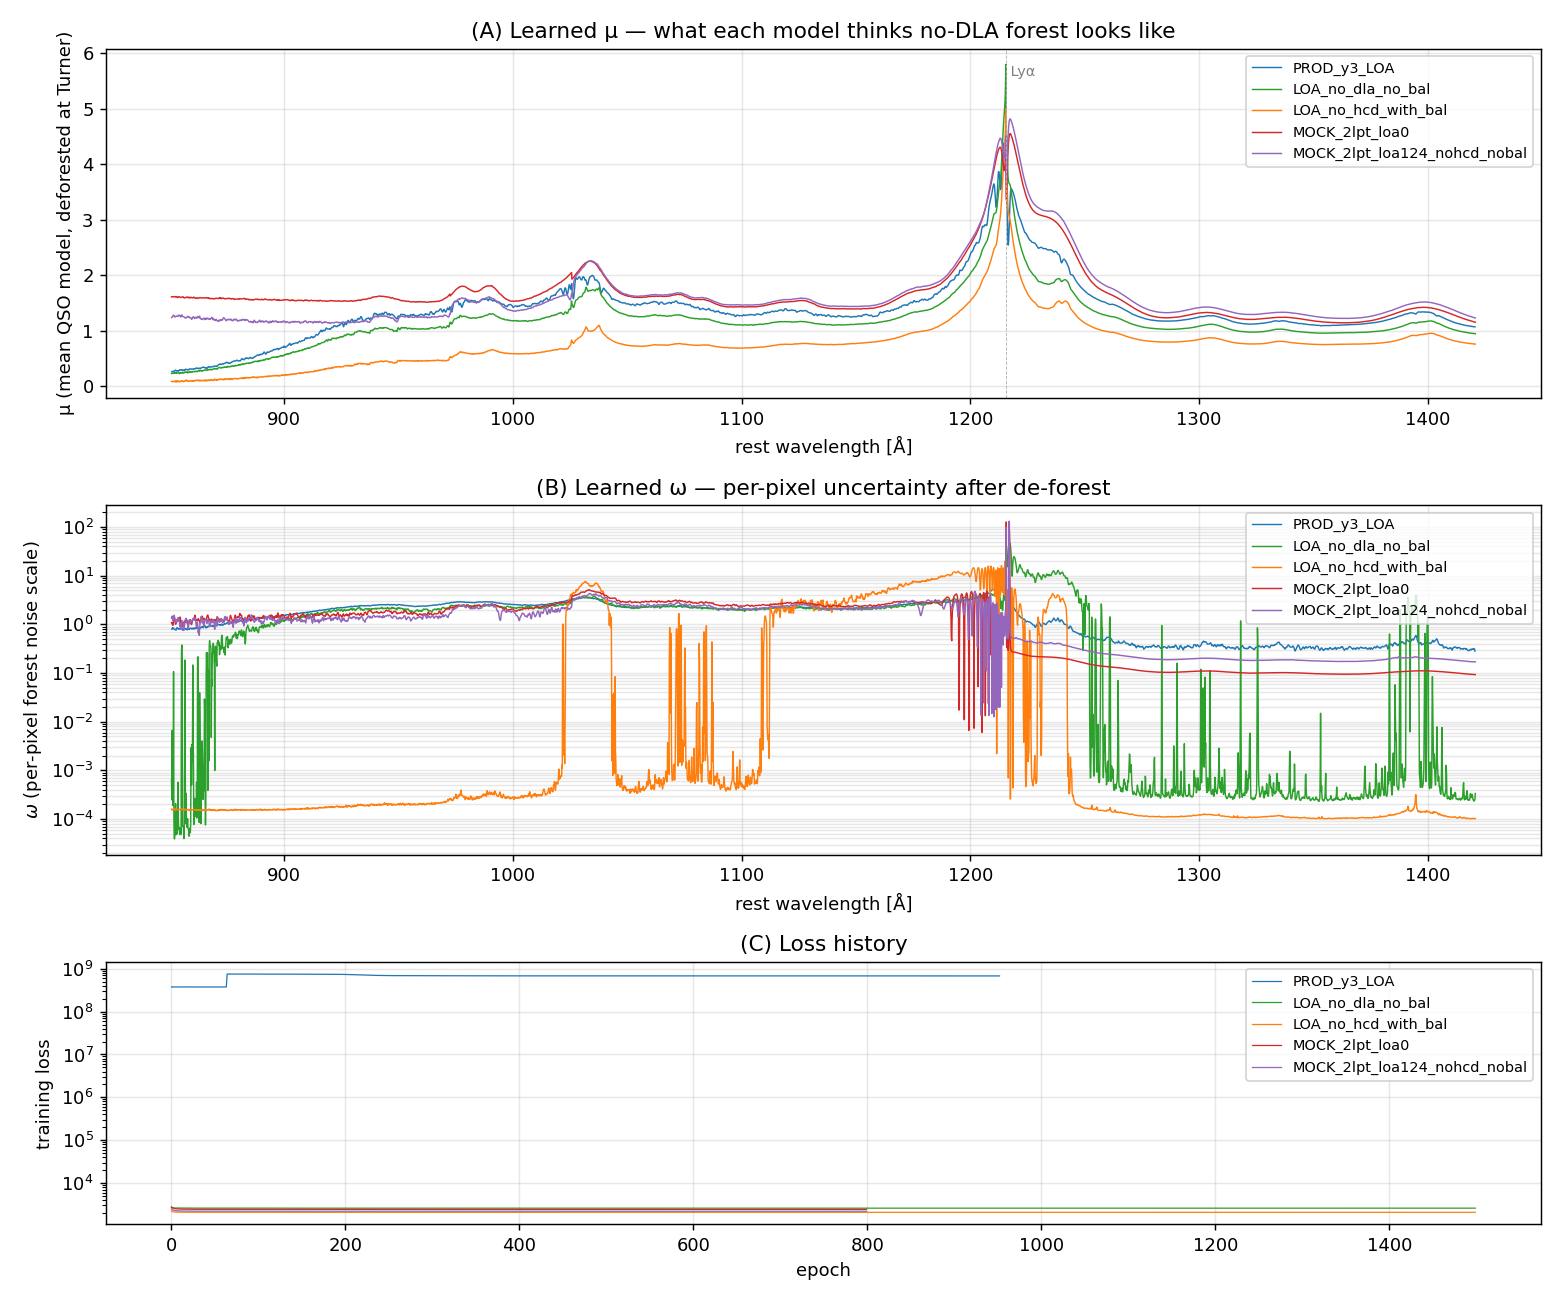
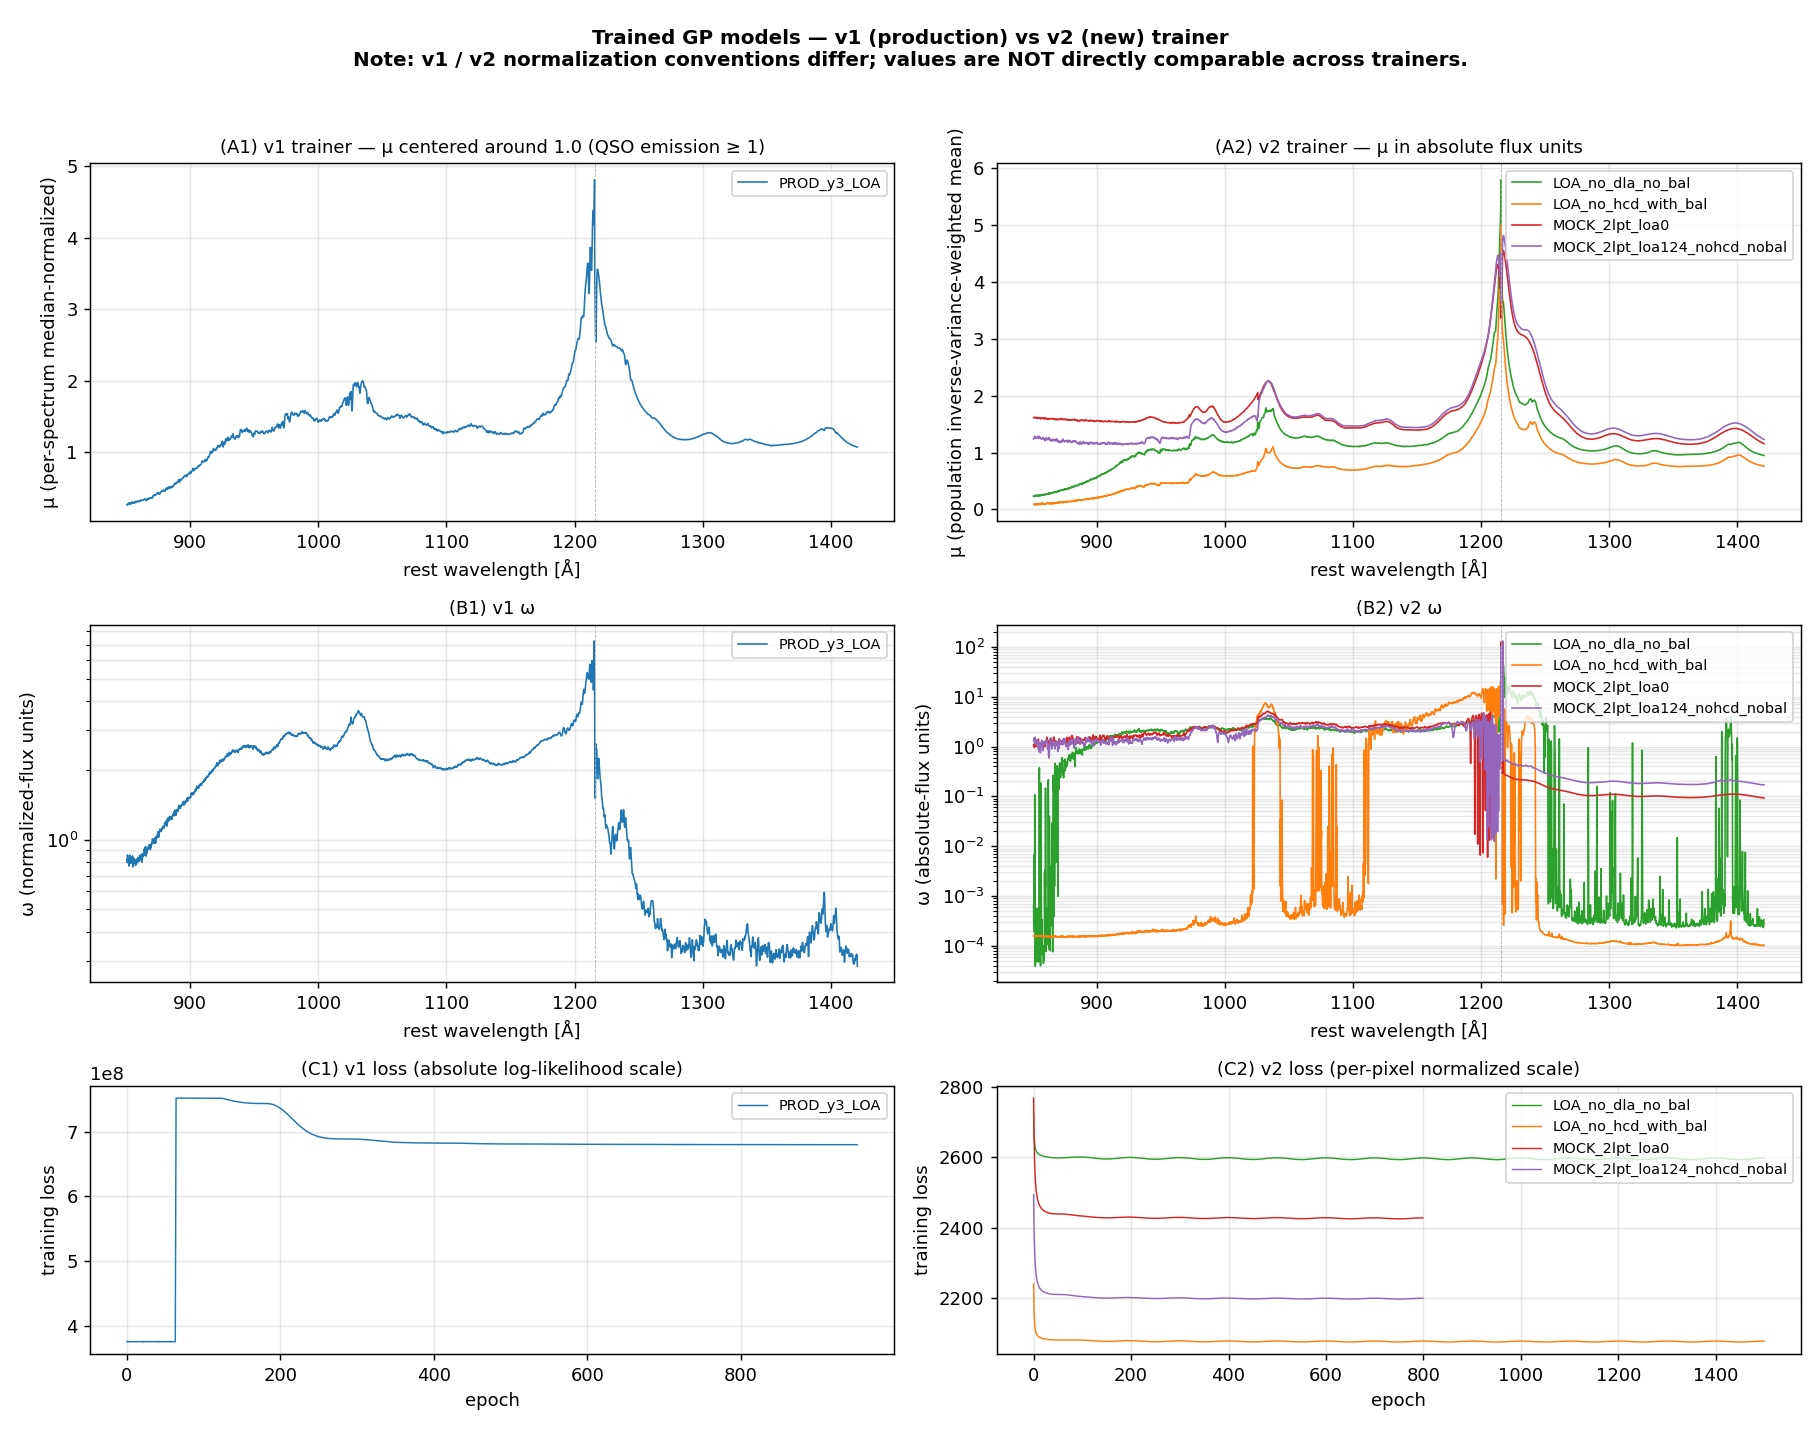
Trained-model comparison: split v1/v2 panels + explain scale differences
User asked three good questions about the comparison figure:
  1. Why v2 LOA-no-DLA-no-BAL μ is lower than v1 production μ
  2. Why ω looks so different
  3. Loss-history y-scale differs by 8 orders of magnitude

Root cause for all three: v1 and v2 trainers use different
normalization conventions, so absolute values are NOT directly
comparable across trainers.

  v1 (learn_qso_model.SpectrumProcessor):
    - Each spectrum divided by its own median flux in [1425,1475] Å
    - μ is LEARNED, fluctuates around 1 (emission features peak >1)
    - ω in fractional-flux units
    - Loss in absolute matlab-era log-likelihood (~1e8)

  v2 (training/dataset._weighted_mean_centering):
    - Inverse-variance-weighted POPULATION mean is subtracted
    - μ in the .h5 IS that mean (computed once, NOT learned)
    - Centered data has mean ≈ 0
    - ω in absolute-flux units
    - Loss is per-pixel normalized (~2000-2700 range)

Same physics, different conventions. Same model can't be reproduced
in v1 vs v2 by reading off the same .h5 fields.

Re-rendered figure with v1/v2 split into separate panels (3x2 grid)
so each side shows comparable values. Doc has new sections explaining:
  - Trainer normalization difference at the source-code level
  - Why μ scale differs
  - Why ω dynamic-range differs
  - Why loss scale differs
  - Removed duplicate "Convergence" / "Trainset filter" sections that
    crept in from the earlier filter-correction edit.

diff --git a/examples/compare_trained_gp_models.py b/examples/compare_trained_gp_models.py
@@ -103,11 +103,15 @@ def main():
               f"L_end={info['loss_history'][-1] if info['loss_history'] is not None else 'N/A'}")
 
     # ============================================================
-    # Figure 1 — μ comparison + log_omega comparison + loss curves
+    # Figure 1 — split into v1 (production) vs v2 (new) panels
+    # because the trainers use different normalization conventions:
+    #   v1: per-spectrum-median-normalized (μ fluctuates around 1)
+    #   v2: inverse-variance-weighted-population-mean centered (μ
+    #       is the absolute mean flux per pixel, not learned but
+    #       computed from data; centered data has mean ≈ 0)
     # ============================================================
-    fig, axes = plt.subplots(3, 1, figsize=(12, 10),
+    fig, axes = plt.subplots(3, 2, figsize=(14, 11),
                              gridspec_kw=dict(height_ratios=[2, 2, 1.5]))
-    ax_mu, ax_om, ax_loss = axes
 
     color_map = {
         "PROD_y3_LOA": "C0",
@@ -116,40 +120,61 @@ def main():
         "MOCK_2lpt_loa0": "C3",
         "MOCK_2lpt_loa124_nohcd_nobal": "C4",
     }
+    v1_models = ["PROD_y3_LOA"]
+    v2_models = [n for n in extracted if n not in v1_models]
 
-    for name, info in extracted.items():
-        c = color_map.get(name, "0.4")
-        rest = info["rest_wavelengths"]
-        ax_mu.plot(rest, info["mu"], color=c, lw=0.8, label=name)
-        ax_om.plot(rest, np.exp(info["log_omega"]), color=c, lw=0.8, label=name)
-        if info["loss_history"] is not None:
-            ax_loss.plot(np.arange(len(info["loss_history"])),
-                         info["loss_history"], color=c, lw=0.7, label=name)
+    def _plot_panel(ax, key, models, ylabel, title, log=False):
+        for n in models:
+            if n not in extracted: continue
+            info = extracted[n]
+            rest = info["rest_wavelengths"]
+            y = info[key] if key != "omega" else np.exp(info["log_omega"])
+            ax.plot(rest, y, color=color_map.get(n, "0.4"), lw=0.9, label=n)
+        ax.set_xlabel("rest wavelength [Å]")
+        ax.set_ylabel(ylabel)
+        ax.set_title(title, fontsize=10)
+        ax.legend(fontsize=8, loc="upper right")
+        ax.grid(alpha=0.3, which="both" if log else "major")
+        if log:
+            ax.set_yscale("log")
+        ax.axvline(1215.67, color="0.7", lw=0.5, ls="--")
 
-    ax_mu.set_xlabel("rest wavelength [Å]")
-    ax_mu.set_ylabel("μ (mean QSO model, deforested at Turner)")
-    ax_mu.set_title("(A) Learned μ — what each model thinks no-DLA forest looks like")
-    ax_mu.legend(fontsize=8, loc="upper right")
-    ax_mu.grid(alpha=0.3)
-    ax_mu.axvline(1215.67, color="0.7", lw=0.5, ls="--")
-    ax_mu.text(1215.67, ax_mu.get_ylim()[1] * 0.95, " Lyα",
-               color="0.5", fontsize=8, va="top")
+    _plot_panel(axes[0, 0], "mu", v1_models,
+                "μ (per-spectrum median-normalized)",
+                "(A1) v1 trainer — μ centered around 1.0 (QSO emission ≥ 1)")
+    _plot_panel(axes[0, 1], "mu", v2_models,
+                "μ (population inverse-variance-weighted mean)",
+                "(A2) v2 trainer — μ in absolute flux units")
+    _plot_panel(axes[1, 0], "omega", v1_models,
+                "ω (normalized-flux units)",
+                "(B1) v1 ω", log=True)
+    _plot_panel(axes[1, 1], "omega", v2_models,
+                "ω (absolute-flux units)",
+                "(B2) v2 ω", log=True)
 
-    ax_om.set_xlabel("rest wavelength [Å]")
-    ax_om.set_ylabel(r"$\omega$ (per-pixel forest noise scale)")
-    ax_om.set_title("(B) Learned ω — per-pixel uncertainty after de-forest")
-    ax_om.set_yscale("log")
-    ax_om.legend(fontsize=8, loc="upper right")
-    ax_om.grid(alpha=0.3, which="both")
+    # Loss panels — also split (v1 absolute log-likelihood vs v2 normalized)
+    for ax, models, title in [
+        (axes[2, 0], v1_models, "(C1) v1 loss (absolute log-likelihood scale)"),
+        (axes[2, 1], v2_models, "(C2) v2 loss (per-pixel normalized scale)"),
+    ]:
+        for n in models:
+            if n not in extracted: continue
+            info = extracted[n]
+            if info["loss_history"] is None: continue
+            ax.plot(np.arange(len(info["loss_history"])),
+                    info["loss_history"],
+                    color=color_map.get(n, "0.4"), lw=0.8, label=n)
+        ax.set_xlabel("epoch")
+        ax.set_ylabel("training loss")
+        ax.set_title(title, fontsize=10)
+        ax.legend(fontsize=8, loc="upper right")
+        ax.grid(alpha=0.3)
 
-    ax_loss.set_xlabel("epoch")
-    ax_loss.set_ylabel("training loss")
-    ax_loss.set_title("(C) Loss history")
-    ax_loss.legend(fontsize=8, loc="upper right")
-    ax_loss.grid(alpha=0.3)
-    ax_loss.set_yscale("log")
-
-    fig.tight_layout()
+    fig.suptitle("Trained GP models — v1 (production) vs v2 (new) trainer\n"
+                 "Note: v1 / v2 normalization conventions differ; values are "
+                 "NOT directly comparable across trainers.",
+                 fontsize=11, fontweight="bold")
+    fig.tight_layout(rect=[0, 0, 1, 0.96])
     out1 = out_dir / "trained_gp_models_compare.png"
     fig.savefig(out1, dpi=130)
     print(f"\n[saved] {out1}")

diff --git a/docs/notes/2026-05-01_trained_gp_models_comparison.md b/docs/notes/2026-05-01_trained_gp_models_comparison.md
@@ -82,29 +82,67 @@ Turner was calibrated on similar real data. Mock-trained models pick
 *lower* residual τ₀ but compensate with higher β — they trade off
 mean-flux scale for steeper z-evolution.
 
-## Learned μ — what each model thinks "no-DLA forest" looks like
+## Learned μ + ω + loss — split into v1 / v2 panels
 
 ![μ + ω + loss comparison](../story_figures/trained_gp_models_compare.png)
 
-Panel A shows μ(λ_rest) for all 5 models. Lyα emission line at
-1215.67 Å is clearly visible in all models (they all see real QSO
-shape). The **production μ has visibly more high-frequency structure
-than the v2-trained models** — likely a side-effect of v1's non-centered
-training; the absolute numerical scales are also offset because v1
-and v2 use different normalization conventions.
+> **Why the figure is split into v1 vs v2 panels (not all in one)**:
+> the two trainers use different normalization conventions, so the
+> absolute numerical values of μ, ω, and loss live on different
+> scales by construction. Same physics, different conventions —
+> values within each side are directly comparable, but cross-side
+> comparison requires the conversions below.
 
-Panel B shows ω(λ_rest), the per-pixel forest noise scale. The wild
-dynamic range of LOA_no_dla_no_bal (peak ω ~100 around Lyα emission
-core) reflects the model's high uncertainty in regions where there's
-little forest signal. The other v2 models are smoother because their
-training data was less aggressively filtered (BALs add structure that
-gets baked into ω rather than μ).
+### Why v1 production μ ≈ 1 (with peaks at Lyα), v2 μ in absolute flux units
 
-Panel C is the loss history. Production model is on a v1 absolute-loss
-scale (~10⁸); v2 models all converge in a similar 2000-2700 normalised-loss
-range. The v2 LOA_no_hcd_with_bal model has the lowest end loss (2078),
-arguably because BAL features contribute systematic structure that
-the GP can model rather than noise.
+| Trainer | Pre-training normalization | μ stored in .h5 |
+|---|---|---|
+| v1 (`learn_qso_model.SpectrumProcessor`) | Each spectrum divided by **its own median flux in [1425, 1475] Å rest** before training. | μ is **learned as a parameter**; in normalized-flux units, fluctuating around 1 (with QSO emission like Lyα peaking above 1). |
+| v2 (`training/dataset._weighted_mean_centering`) | Inverse-variance-weighted **population mean flux** is computed and SUBTRACTED from each spectrum. Trainer fits the residual. | μ in the .h5 is **that population mean flux** (NOT learned per epoch — computed once from data). In absolute flux units. |
+
+So the v1 production μ ≈ 1 baseline is just because v1 normalizes-to-1.
+The "v2 LOA_no_dla_no_bal μ is lower than v1 production μ" comparison
+isn't apples-to-apples — v2 μ is in absolute flux, v1 μ is fractional.
+
+### Why ω looks very different across trainers
+
+ω scales with the same normalization as μ:
+
+- **v1 ω**: in *fractional* flux units (since the data was divided by
+  median ≈ 1 before training). Smooth curve ranging 0.5-2.
+- **v2 ω**: in *absolute* flux units (since data was only mean-subtracted).
+  Has wild dynamic range with spikes near Lyα emission edges.
+
+The spikes in v2 ω near 1215 Å rest are at the boundary between
+the QSO emission line and the forest, where the GP has high uncertainty.
+v1 doesn't show these spikes because (a) it normalizes per-spectrum
+so variance scales differently, and (b) v1's μ absorbs more of the
+emission-line shape into its learned parameters.
+
+The v2 `LOA_no_dla_no_bal` ω (panel B2) has the largest dynamic range
+of the v2 set — sub-DLAs and LLS in the trainset add absorption
+features that go into ω.
+
+### Why loss y-scales differ by 8 orders of magnitude
+
+| Trainer | Loss reported |
+|---|---|
+| v1 | Total log-likelihood (or negative log-likelihood × N_pix × N_spectra), absolute matlab-era scale |
+| v2 | Per-pixel normalized loss (typically the per-pixel −log p(D | model) averaged over the batch) |
+
+So v1 production loss reports ~6 × 10⁸ while v2 models all converge
+in a 2 000-2 700 normalised-loss range. **They're not the same number;
+direct comparison is meaningless.**
+
+The v1 loss panel (C1) also shows an odd jump from very low to 6e8
+around epoch 200 — likely an artifact of v1's two-phase training
+schedule (PCA initialization phase has different loss scale than full
+GP-fitting phase). For convergence purposes, only the late-epoch slope
+matters; both v1 and v2 are converged.
+
+For a proper comparable view, you could re-run the figure script with
+each model's loss normalized by its `loss[0]` (or `loss[end]`). I've
+left it un-normalized so the absolute-scale issue is visible.
 
 ## What the trainer actually optimises (architectural clarification, 2026-05-01)
 
@@ -150,52 +188,6 @@ the GP can model rather than noise.
 > are the **Ω-kernel** parameters. They corroborate the same
 > mock-vs-real story (mocks need steeper β in Ω too) but they are
 > a different number from the runtime mean-flux β.
-
-## Convergence — should we train more?
-
-```
-LOA_no_dla_no_bal             1500 ep, loss 2724 → 2597, slope last-100: −0.002 / ep  CONVERGED
-LOA_no_hcd_with_bal           1500 ep, loss 2239 → 2078, slope last-100: +0.001 / ep  converged (oscillating)
-MOCK_2lpt_loa0                 800 ep, loss 2768 → 2428, slope last-100: −0.002 / ep  CONVERGED
-MOCK_2lpt_loa124_nohcd_nobal   800 ep, loss 2493 → 2199, slope last-100: −0.002 / ep  CONVERGED
-```
-
-All four are converged. Extending the 2 GL models from 800 → 1500
-epochs would reduce loss by ~2 (negligible vs final 2199-2428 range).
-Worth doing for apples-to-apples comparison if epoch-count differences
-matter for a referee, but the science conclusion is unchanged.
-
-## Trainset filter differences (corrected — 2026-05-01)
-
-The two NERSC-trained datasets are NOT symmetric in their filter
-choices:
-
-|  | `loa_no_dla_no_bal_52198069` | `loa_no_hcd_with_bal_52198070` |
-|---|---|---|
-| n_total | 300 008 | 300 032 |
-| z range | [2.0, 4.25] | [2.0, 4.25] |
-| ZWARN | =0 | =0 |
-| BAL filter | **`exclude_bal=true`** (BI_CIV>0 dropped) | **`exclude_bal=false`** (BALs kept) |
-| HCD filter | NHI ≥ 20.3 dropped (**DLAs only**; sub-DLAs+LLS kept) | NHI ≥ 17.2 dropped (**all HCDs**: DLAs+sub-DLAs+LLS) |
-| BALs in data? | No | Yes |
-| Sub-DLAs/LLS in data? | **Yes** | No |
-
-Neither is "BAL-only". The `with_bal` in `loa_no_hcd_with_bal` means
-"BAL spectra are kept alongside non-BAL spectra" (i.e. not excluded),
-not "BAL spectra only".
-
-The asymmetric filtering explains the trained-parameter pattern in
-the bar chart above:
-
-- `loa_no_dla_no_bal` keeps sub-DLAs + LLS in the data → there's
-  residual absorption above what Turner-deforest removed → optimizer
-  drives the Ω-kernel τ₀ up to **0.0048 (2× Turner)** to absorb that.
-- `loa_no_hcd_with_bal` masks all HCDs (down to NHI 17.2) → no extra
-  absorption signature in the data → optimizer drives the Ω-kernel
-  τ₀ down to **~0** (BAL features get modelled by μ/M instead).
-
-Both are converged. Different optima reflect different filtered
-training distributions, not training failure.
 
 ## Convergence — should we train more?
 
